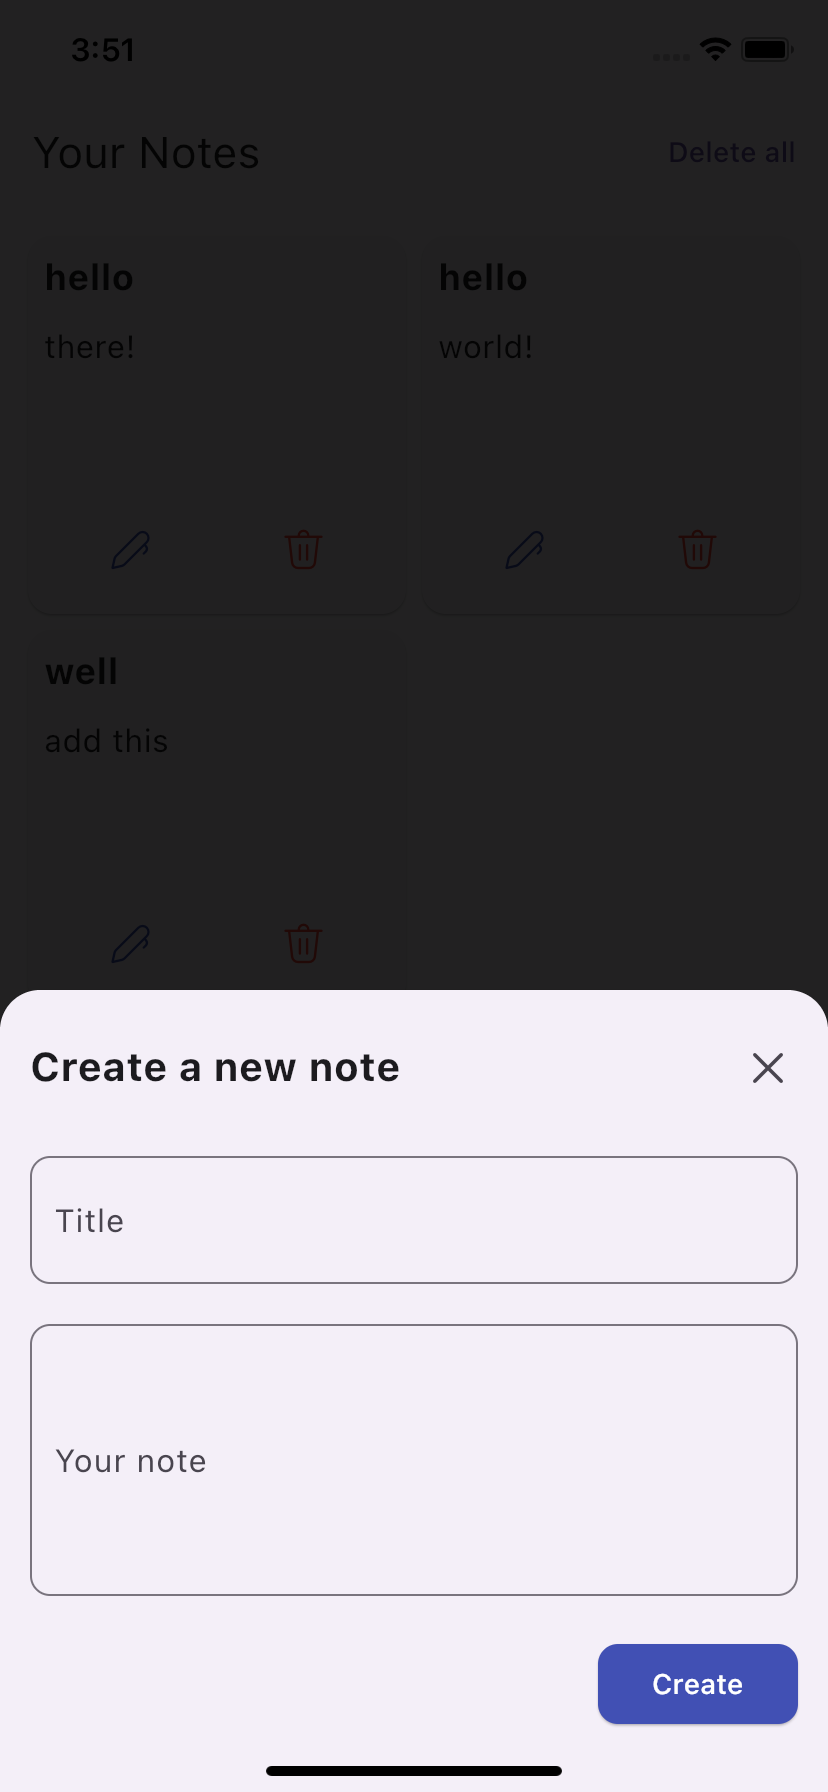
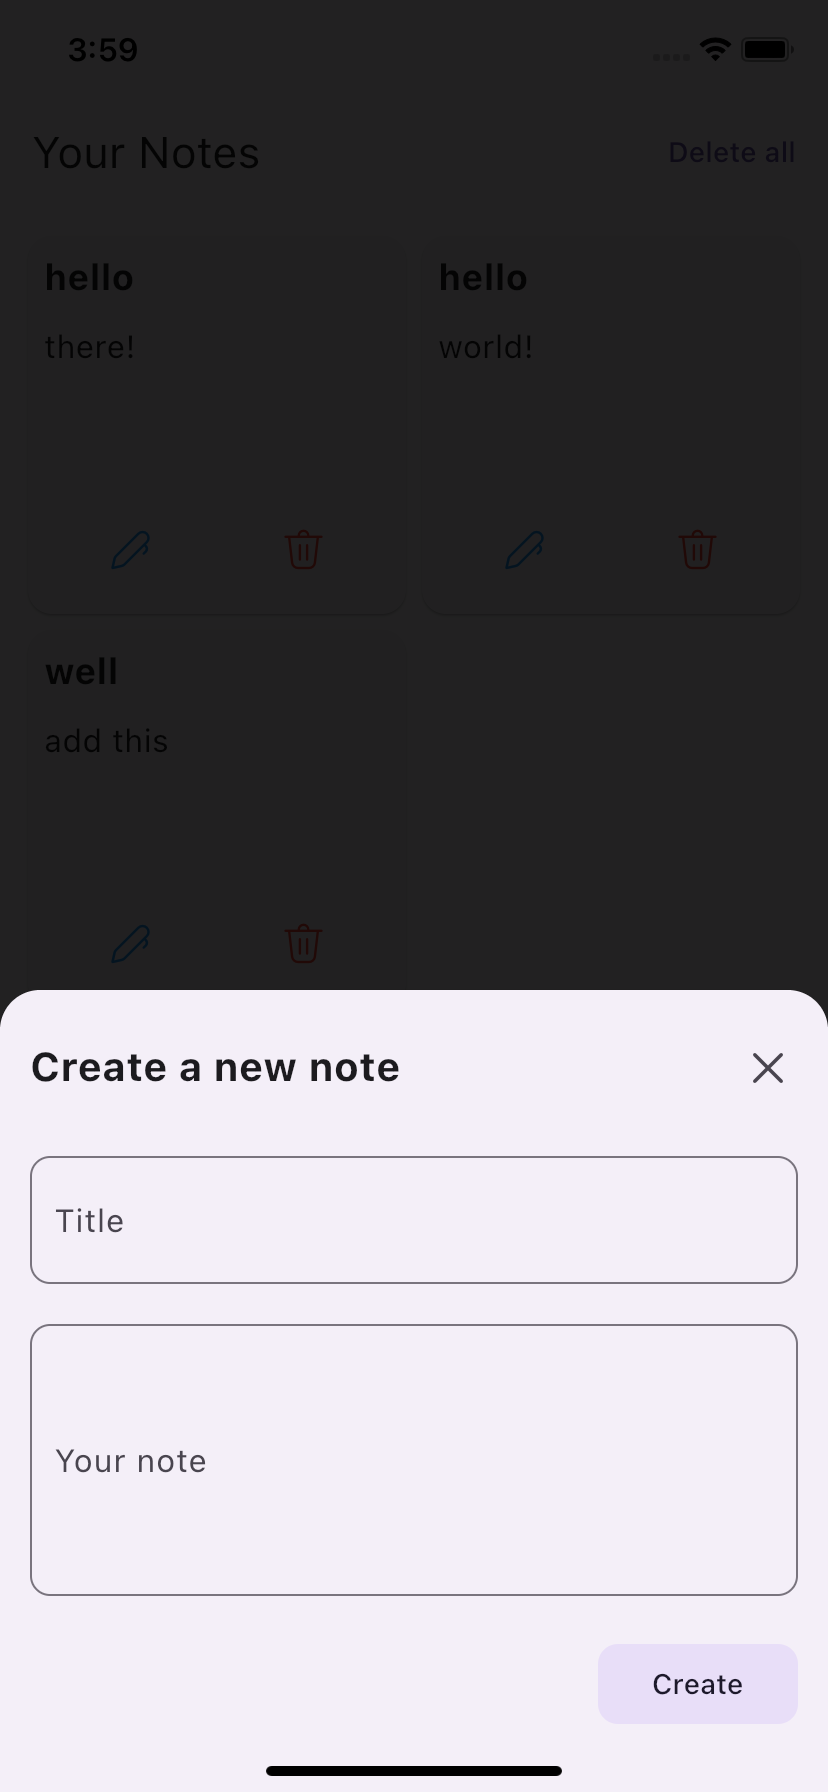
dark mode screenshots and updated button

Changed region(s): [[0.7246, 0.9062, 0.9662, 0.9688], [0.1208, 0.0, 0.151, 0.0312]]

diff --git a/lib/main.dart b/lib/main.dart
@@ -179,11 +179,11 @@ class _HomeScreenState extends State<HomeScreen> {
                 ),
                 Align(
                     alignment: Alignment.centerRight,
-                    child: ElevatedButton(
-                      style: ElevatedButton.styleFrom(
-                          backgroundColor: Theme.of(context).primaryColor,
-                          foregroundColor:
-                          Theme.of(context).primaryIconTheme.color,
+                    child: FilledButton.tonal(
+                      style: FilledButton.styleFrom(
+                          //backgroundColor: Theme.of(context).primaryColor,
+                          // foregroundColor:
+                          // Theme.of(context).primaryIconTheme.color,
                           minimumSize: const Size(100, 40),
                           shape: RoundedRectangleBorder(
                               borderRadius: BorderRadius.circular(10))),
